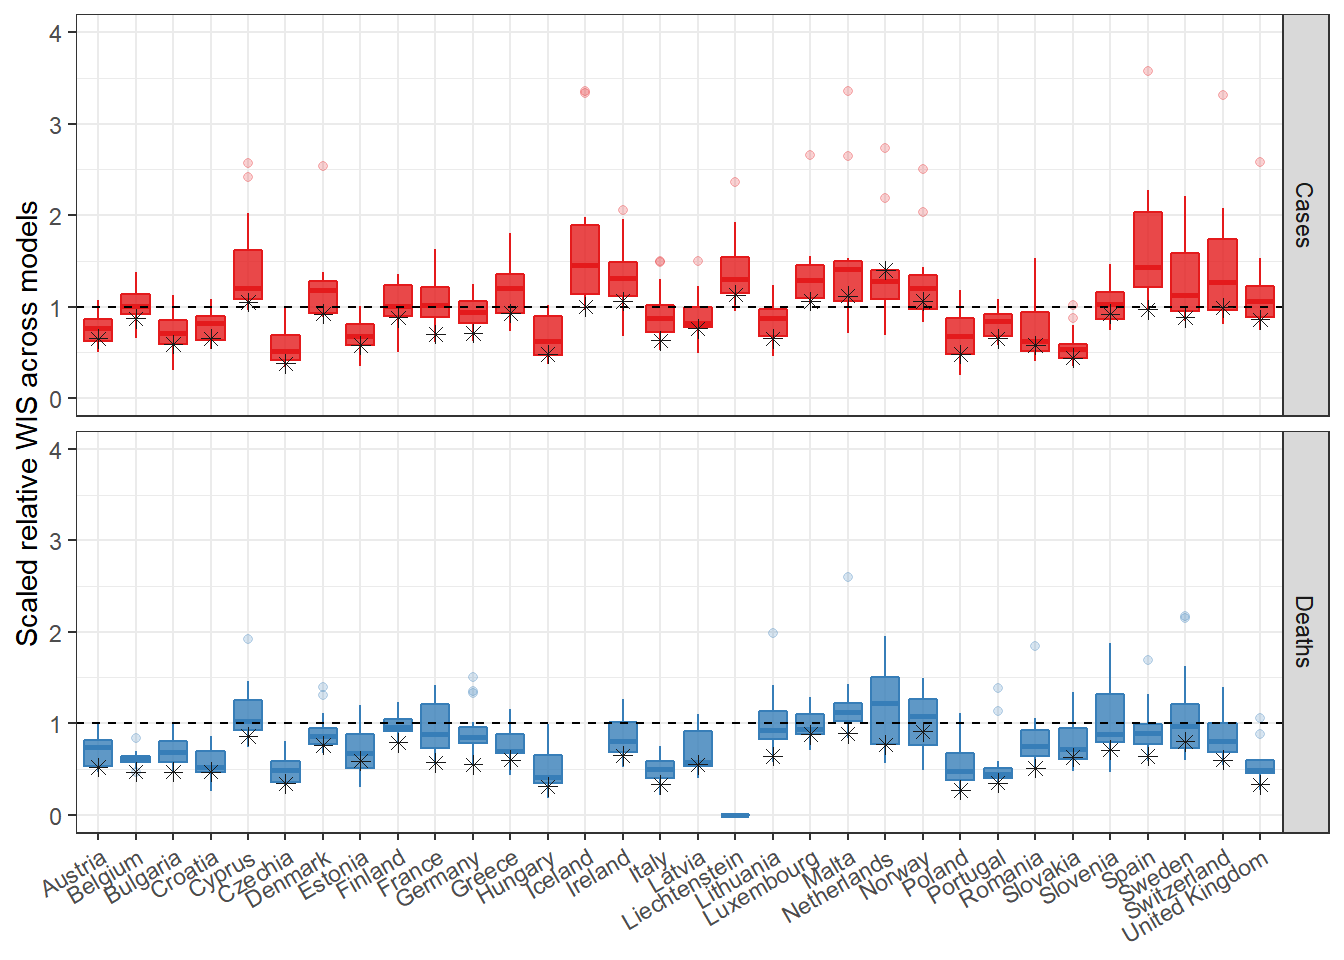
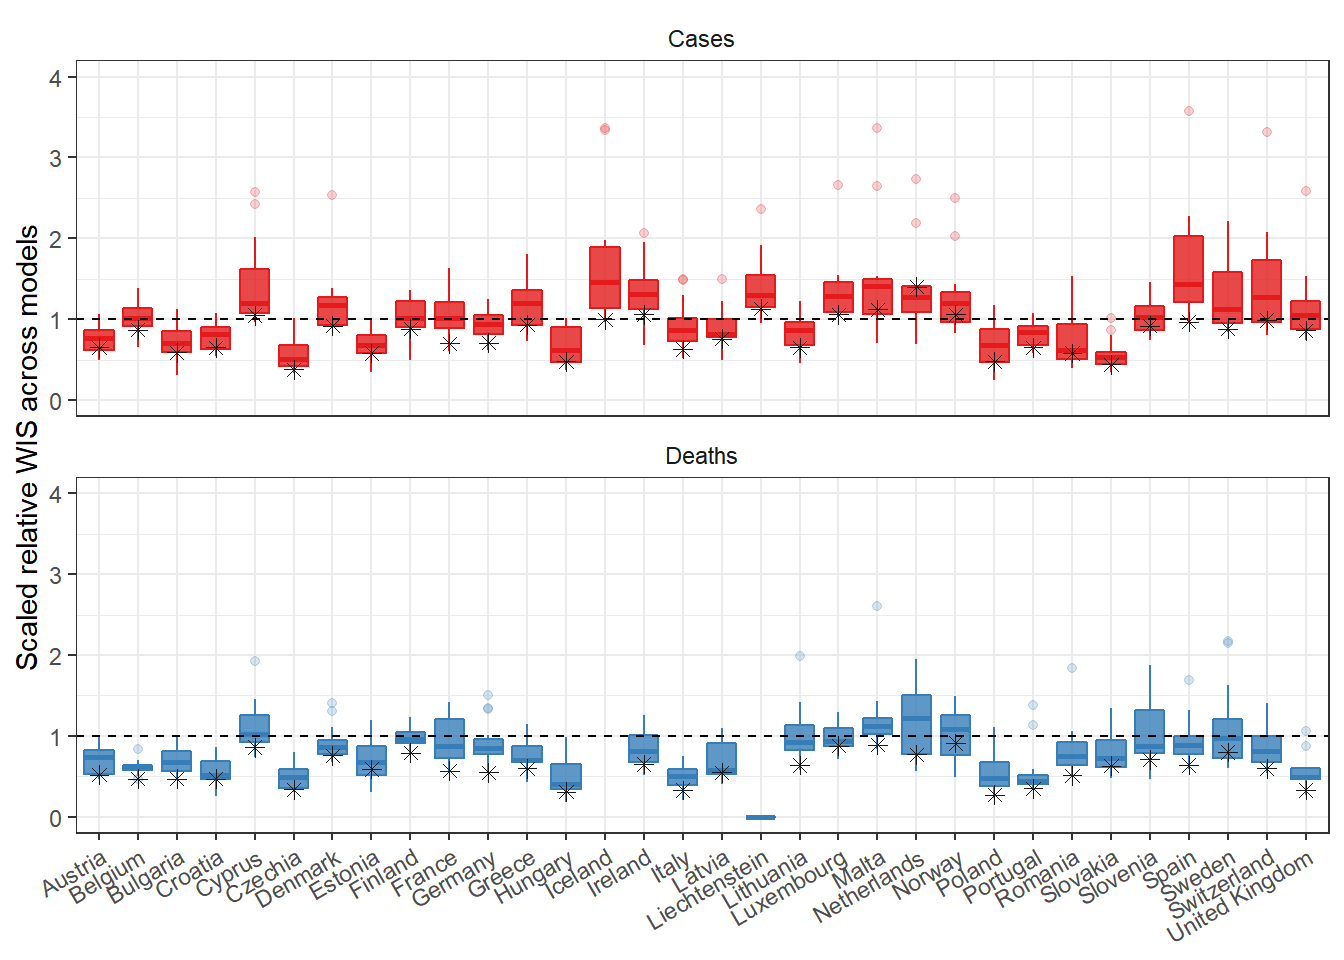
update results

diff --git a/hub-ensemble/docs/results.html b/hub-ensemble/docs/results.html
@@ -297,7 +297,7 @@ $(document).ready(function () {
 <div class="tab-content">
 <div id="summary" class="tab-pane fade in active">
 <p>
-<strong>Last updated:</strong> 2021-12-03
+<strong>Last updated:</strong> 2021-12-04
 </p>
 <p>
 <strong>Checks:</strong> <span class="glyphicon glyphicon-ok text-success" aria-hidden="true"></span> 6 <span class="glyphicon glyphicon-exclamation-sign text-danger" aria-hidden="true"></span> 1
@@ -388,16 +388,16 @@ This reproducible <a href="http://rmarkdown.rstudio.com">R Markdown</a> analysis
 <div class="panel panel-default">
 <div class="panel-heading">
 <p class="panel-title">
-<a data-toggle="collapse" data-parent="#workflowr-checks" href="#strongRepositoryversionstrongahrefhttpsgithubcomepiforecastscovid19forecasthubeuroperesearchtree344db967ceb9f2d38121d7e1a298e6c30a245d5btargetblank344db96a"> <span class="glyphicon glyphicon-ok text-success" aria-hidden="true"></span> <strong>Repository version:</strong> <a href="https://github.com/epiforecasts/covid19-forecast-hub-europe-research/tree/344db967ceb9f2d38121d7e1a298e6c30a245d5b" target="_blank">344db96</a> </a>
+<a data-toggle="collapse" data-parent="#workflowr-checks" href="#strongRepositoryversionstrongahrefhttpsgithubcomepiforecastscovid19forecasthubeuroperesearchtreed79cbf1e3c4c5a78eb64e3b49846672b5037bedbtargetblankd79cbf1a"> <span class="glyphicon glyphicon-ok text-success" aria-hidden="true"></span> <strong>Repository version:</strong> <a href="https://github.com/epiforecasts/covid19-forecast-hub-europe-research/tree/d79cbf1e3c4c5a78eb64e3b49846672b5037bedb" target="_blank">d79cbf1</a> </a>
 </p>
 </div>
[2 lines of base64/hex data omitted]
 <div class="panel-body">
 <p>
 Great! You are using Git for version control. Tracking code development and connecting the code version to the results is critical for reproducibility.
 </p>
 <p>
-The results in this page were generated with repository version <a href="https://github.com/epiforecasts/covid19-forecast-hub-europe-research/tree/344db967ceb9f2d38121d7e1a298e6c30a245d5b" target="_blank">344db96</a>. See the <em>Past versions</em> tab to see a history of the changes made to the R Markdown and HTML files.
+The results in this page were generated with repository version <a href="https://github.com/epiforecasts/covid19-forecast-hub-europe-research/tree/d79cbf1e3c4c5a78eb64e3b49846672b5037bedb" target="_blank">d79cbf1</a>. See the <em>Past versions</em> tab to see a history of the changes made to the R Markdown and HTML files.
 </p>
 <p>
 Note that you need to be careful to ensure that all relevant files for the analysis have been committed to Git prior to generating the results (you can use <code>wflow_publish</code> or <code>wflow_git_commit</code>). workflowr only checks the R Markdown file, but you know if there are other scripts or data files that it depends on. Below is the status of the Git repository when the results were generated:
@@ -412,7 +412,7 @@ Ignored files:
 
 Unstaged changes:
     Modified:   hub-ensemble/analysis/results.Rmd
-    Modified:   hub-ensemble/code/get-model-eval.R
+    Modified:   hub-ensemble/code/get-ensemble-eval.R
 
 </code></pre>
 <p>
@@ -451,6 +451,40 @@ Message
 </tr>
 </thead>
 <tbody>
+<tr>
+<td>
+Rmd
+</td>
+<td>
+<a href="https://github.com/epiforecasts/covid19-forecast-hub-europe-research/blob/d79cbf1e3c4c5a78eb64e3b49846672b5037bedb/hub-ensemble/analysis/results.Rmd" target="_blank">d79cbf1</a>
+</td>
+<td>
+kathsherratt
+</td>
+<td>
+2021-12-03
+</td>
+<td>
+update results
+</td>
+</tr>
+<tr>
+<td>
+html
+</td>
+<td>
+<a href="https://rawcdn.githack.com/epiforecasts/covid19-forecast-hub-europe-research/d79cbf1e3c4c5a78eb64e3b49846672b5037bedb/hub-ensemble/docs/results.html" target="_blank">d79cbf1</a>
+</td>
+<td>
+kathsherratt
+</td>
+<td>
+2021-12-03
+</td>
+<td>
+update results
+</td>
+</tr>
 <tr>
 <td>
 html
@@ -509,35 +543,30 @@ use workflowr
 </div>
 </div>
 </div>
-<div id="component-models" class="section level2">
-<h2>Component models</h2>
 <p>We scored all forecasts submitted weekly in real time over the 36 week period from 08 March to 15 November 2021. Each week, forecasts could predict incident cases and deaths, for 32 locations over the following 4 weeks, creating 256 possible forecast targets. We received 43 unique forecasting models from 36 separate forecasting teams. We added an ensemble model using all available forecasts for each possible target.</p>
 <p>We used this dataset to create 3998 forecasting scores, each summarising a unique combination of model, variable, country, and week ahead horizon. Not all teams forecast for all targets, nor across all quantiles of the predictive distribution for each target. 37 models provided sufficient quantiles that we could evaluate them using the relative weighted interval score (WIS).</p>
-<p>The ensemble model performed well compared to each original forecast model score. The ensemble performed better on relative WIS than 66% model scores when forecasting cases (n=1832), and 67 scores for forecasts of incident deaths (n=1832).</p>
 <div class="figure" style="text-align: center">
-<img src="figure/results.Rmd/figure-model-by-horizon-1.png" alt="Figure #: Performance of short-term forecasts, by relativeinterval score (relative to a baseline forecast, top) and coverage of the 0.5 interval (the proportion of observed values that fell within the predicted50% range, bottom). The scores of each model (grey) and ensemble (red) areaveraged across all forecast targets and shown by one- to four-week ahead horizon." width="672" />
+<img src="figure/results.Rmd/figure-model-by-horizon-1.png" alt="Figure #: Performance of short-term forecasts, by relative interval score (relative to a baseline forecast, top) and coverage of the 0.5 interval (the proportion of observed values that fell within the predicted 50% range, bottom). The scores of each model (grey) and ensemble (red) are averaged across all forecast targets and shown by one- to four-week ahead horizon." width="672" />
 <p class="caption">
-Figure #: Performance of short-term forecasts, by relativeinterval score (relative to a baseline forecast, top) and coverage of the 0.5 interval (the proportion of observed values that fell within the predicted50% range, bottom). The scores of each model (grey) and ensemble (red) areaveraged across all forecast targets and shown by one- to four-week ahead horizon.
+Figure #: Performance of short-term forecasts, by relative interval score (relative to a baseline forecast, top) and coverage of the 0.5 interval (the proportion of observed values that fell within the predicted 50% range, bottom). The scores of each model (grey) and ensemble (red) are averaged across all forecast targets and shown by one- to four-week ahead horizon.
 </p>
 </div>
-<p>The ensemble model outperformed the baseline at one week for both cases and deaths (figure #). For horizons longer than one-week ahead, performance depended on the epidemiological target. Using relative WIS, the ensemble stopped outperforming the baseline at three to four weeks for cases. In contrast, the ensemble outperformed the baseline for deaths at all horizons considered (up to four weeks WIS), with no discernible deterioration in performance. We observed similar trends in performance when considering how well the ensemble calibrated to uncertainty. At one week the case ensemble was well calibrated (ca. 50% nominal coverage), but this did not hold with increasing forecast horizon. The death ensemble was well calibrated at the 95% level for all horizons and under confident for the 50% level, with only slow deterioration with increasing forecast horizon.</p>
+<p>The ensemble model performed well compared to both the relative scores of each original forecast model scaled to the baseline, and the baseline model itself. In ranking all models’ scores compared to the baseline, the ensemble performed better on relative WIS than 66% model scores when forecasting cases (n=1832), and 67% of scores for forecasts of incident deaths (n=1910). Compared to the baseline model alone, the ensemble outperformed at one week for both cases and deaths (figure #). For horizons longer than one-week ahead, performance depended on the epidemiological target. Using relative WIS, the ensemble stopped outperforming the baseline at three to four weeks for cases. In contrast, the ensemble outperformed the baseline for deaths at all horizons considered (up to four weeks WIS), with no discernible deterioration in performance.</p>
+<p>We observed similar trends in performance when considering how well the ensemble calibrated to uncertainty. At one week the case ensemble was well calibrated (ca. 50% nominal coverage), but this did not hold with increasing forecast horizon. The death ensemble was well calibrated at the 95% level for all horizons and under confident for the 50% level, with only slow deterioration with increasing forecast horizon.</p>
 <div class="figure" style="text-align: center">
-<img src="figure/results.Rmd/figure-model-by-location-1.png" alt="Figure #: Performance of short-term forecasts across models andmedian ensemble (asterisk), by country, forecasting cases (top) and deaths(bottom) at 2 weeks ahead. Performance measured by relative weighted interval score scaled against baseline. Boxplots show interquartile range, withoutliers as faded points, and ensemble model performance marked by asterisk." width="672" />
+<img src="figure/results.Rmd/figure-model-by-location-1.png" alt="Figure #: Performance of short-term forecasts across models and median ensemble (asterisk), by country, forecasting cases (top) and deaths (bottom) for two-week ahead forecasts. Performance measured by relative weighted interval score scaled against baseline. Boxplots show interquartile range, with outliers as faded points, and ensemble model performance marked by asterisk." width="672" />
 <p class="caption">
-Figure #: Performance of short-term forecasts across models andmedian ensemble (asterisk), by country, forecasting cases (top) and deaths(bottom) at 2 weeks ahead. Performance measured by relative weighted interval score scaled against baseline. Boxplots show interquartile range, withoutliers as faded points, and ensemble model performance marked by asterisk.
+Figure #: Performance of short-term forecasts across models and median ensemble (asterisk), by country, forecasting cases (top) and deaths (bottom) for two-week ahead forecasts. Performance measured by relative weighted interval score scaled against baseline. Boxplots show interquartile range, with outliers as faded points, and ensemble model performance marked by asterisk.
 </p>
 </div>
-<p>The ensemble also performed consistently well when forecasting across countries, relative to individual models (figure #).</p>
-<p>The median average of the IQR for each country was # for cases and # for deaths.</p>
-<p>The ensemble outperformed all models in # of 32 locations,</p>
-<p>in all locations outperformed the median score of all models.</p>
-<p>the median performance of all models</p>
-<p>Across # out of # locations, the median ensemble (figure #, asterisk) had the best performing relative WIS compared to the baseline.</p>
-<p>Model performance varied by country (figure #). Some countries (the UK, Portugal, Belgium) had a much narrower distribution of model scores .</p>
+<p>The ensemble also performed consistently well when forecasting across countries, relative to individual models and the baseline (figure #). Compared to models that forecast across all 32 countries at the two week horizon, the ensemble was the most consistent in outperforming the baseline across countries compared to any single model forecasting deaths, and all but one model for case forecasts. Considering forecast targets across all 32 countries and over all four horizons (128 targets), the ensemble forecast outperformed the baseline for 67% and 91% of all 128 targets when forecasting cases and deaths respectively.</p>
+<div class="figure" style="text-align: center">
+<img src="figure/results.Rmd/figure-alternative-ensembles-1.png" alt="Figure #: Performance of alternative ensemble methods at 2 week horizon, showing mean difference (triangle) in relative weighted interval score, with 48% and 96% probability (thick and thin line respectively). The difference in WIS is a comparison of scores from forecasts made from all possible combinations of methods, with a single element of ensemble method input changed. Reference categories are: weighted v. unweighted (n=250); median v. mean (n=376); cutoff by WIS v. all models included (n=374); relative WIS measures over 10 weeks of forecast history vs. all forecasts (n=248)" width="672" />
+<p class="caption">
+Figure #: Performance of alternative ensemble methods at 2 week horizon, showing mean difference (triangle) in relative weighted interval score, with 48% and 96% probability (thick and thin line respectively). The difference in WIS is a comparison of scores from forecasts made from all possible combinations of methods, with a single element of ensemble method input changed. Reference categories are: weighted v. unweighted (n=250); median v. mean (n=376); cutoff by WIS v. all models included (n=374); relative WIS measures over 10 weeks of forecast history vs. all forecasts (n=248)
+</p>
 </div>
-<div id="alternative-ensemble-methods" class="section level2">
-<h2>Alternative ensemble methods</h2>
-<p>Figure # results text: Models forecasting incident cases had more variable scores than forecasts for incidence of death.</p>
+<p>At the two-week ahead horizon, variations in ensemble methods made little difference to forecast scores. Ensembles that weighted forecasts showed no difference in performance to simple unweighted ensemble methods. Similarly, in choosing a method with which to weight forecasts, the choice of whether the use scores across all past forecasts, or scores evaluating only the most recent 10 weeks’ forecast scores, made very little difference to the performance of the resulting ensemble (0 mean change in forecast score). The choice to exclude any forecast that scored worse than the baseline forecast (“cut off”) affected the performance of the ensemble in both directions, overall slightly worsening performance (+0.07 relative WIS). Using the median average was the only variation of ensemble method that improved performance, compared to using the mean average across any combination of ensemble method.</p>
 <br>
 <p>
 <button type="button" class="btn btn-default btn-workflowr btn-workflowr-sessioninfo" data-toggle="collapse" data-target="#workflowr-sessioninfo" style="display: block;">
@@ -565,7 +594,7 @@ other attached packages:
  [1] covidHubUtils_0.1.6 readr_2.1.0         gghighlight_0.3.2  
  [4] patchwork_1.1.1     forcats_0.5.1       ggplot2_3.3.5      
  [7] purrr_0.3.4         lubridate_1.8.0     tidyr_1.1.4        
-[10] dplyr_1.0.7         here_1.0.1         
+[10] dplyr_1.0.7         here_1.0.1          workflowr_1.6.2    
 
 loaded via a namespace (and not attached):
  [1] Rcpp_1.0.7         assertthat_0.2.1   rprojroot_2.0.2    digest_0.6.28     
@@ -574,18 +603,16 @@ loaded via a namespace (and not attached):
 [13] rstudioapi_0.13    whisker_0.4        jquerylib_0.1.4    rmarkdown_2.11    
 [17] labeling_0.4.2     stringr_1.4.0      bit_4.0.4          munsell_0.5.0     
 [21] compiler_4.0.4     httpuv_1.6.3       xfun_0.28          pkgconfig_2.0.3   
-[25] htmltools_0.5.2    tidyselect_1.1.1   tibble_3.1.6       workflowr_1.6.2   
-[29] codetools_0.2-18   fansi_0.5.0        crayon_1.4.2       tzdb_0.2.0        
-[33] withr_2.4.2        later_1.3.0        grid_4.0.4         jsonlite_1.7.2    
-[37] gtable_0.3.0       lifecycle_1.0.1    DBI_1.1.1          git2r_0.29.0      
-[41] magrittr_2.0.1     scales_1.1.1       cli_3.1.0          stringi_1.7.5     
-[45] vroom_1.5.6        farver_2.1.0       fs_1.5.0           promises_1.2.0.1  
-[49] doParallel_1.0.16  bslib_0.3.1        ellipsis_0.3.2     generics_0.1.1    
-[53] vctrs_0.3.8        RColorBrewer_1.1-2 iterators_1.0.13   tools_4.0.4       
-[57] bit64_4.0.5        glue_1.5.0         hms_1.1.1          parallel_4.0.4    
-[61] fastmap_1.1.0      yaml_2.2.1         colorspace_2.0-2   knitr_1.36        
-[65] sass_0.4.0        </code></pre>
-</div>
+[25] htmltools_0.5.2    tidyselect_1.1.1   tibble_3.1.6       codetools_0.2-18  
+[29] fansi_0.5.0        crayon_1.4.2       tzdb_0.2.0         withr_2.4.2       
+[33] later_1.3.0        grid_4.0.4         jsonlite_1.7.2     gtable_0.3.0      
+[37] lifecycle_1.0.1    DBI_1.1.1          git2r_0.29.0       magrittr_2.0.1    
+[41] scales_1.1.1       cli_3.1.0          stringi_1.7.5      vroom_1.5.6       
+[45] farver_2.1.0       fs_1.5.0           promises_1.2.0.1   doParallel_1.0.16 
+[49] bslib_0.3.1        ellipsis_0.3.2     generics_0.1.1     vctrs_0.3.8       
+[53] RColorBrewer_1.1-2 iterators_1.0.13   tools_4.0.4        bit64_4.0.5       
+[57] glue_1.5.0         hms_1.1.1          parallel_4.0.4     fastmap_1.1.0     
+[61] yaml_2.2.1         colorspace_2.0-2   knitr_1.36         sass_0.4.0        </code></pre>
 </div>
 
 
